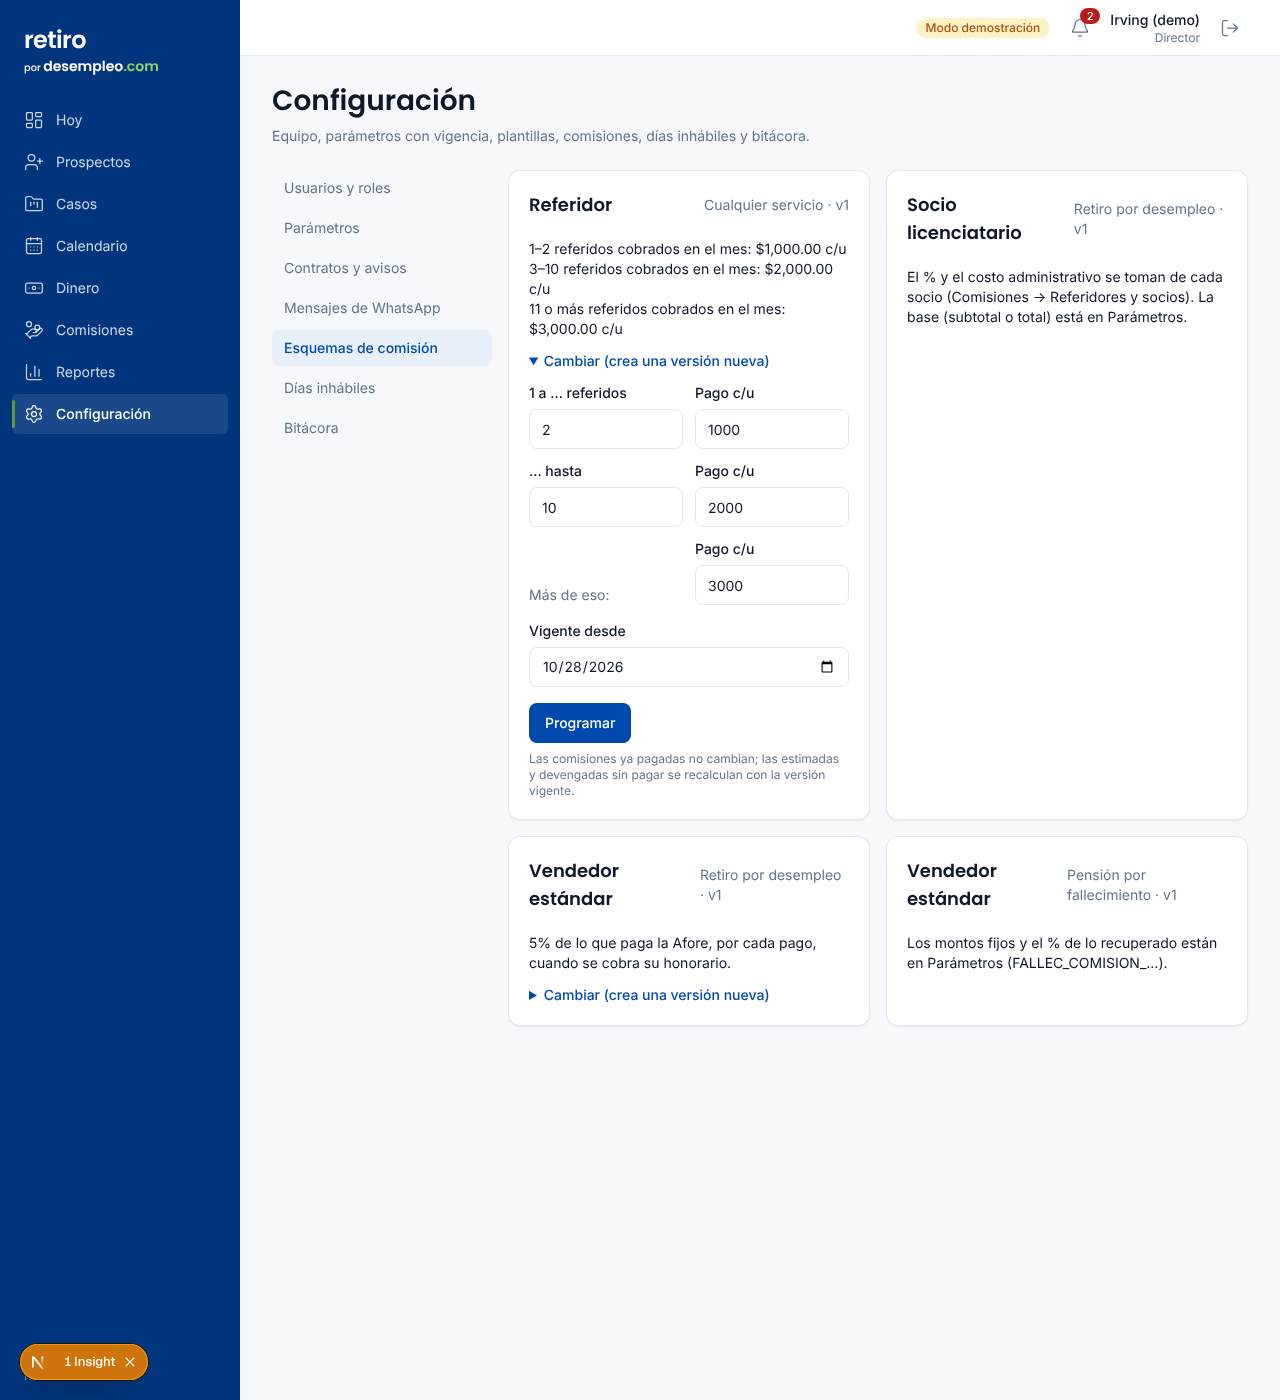
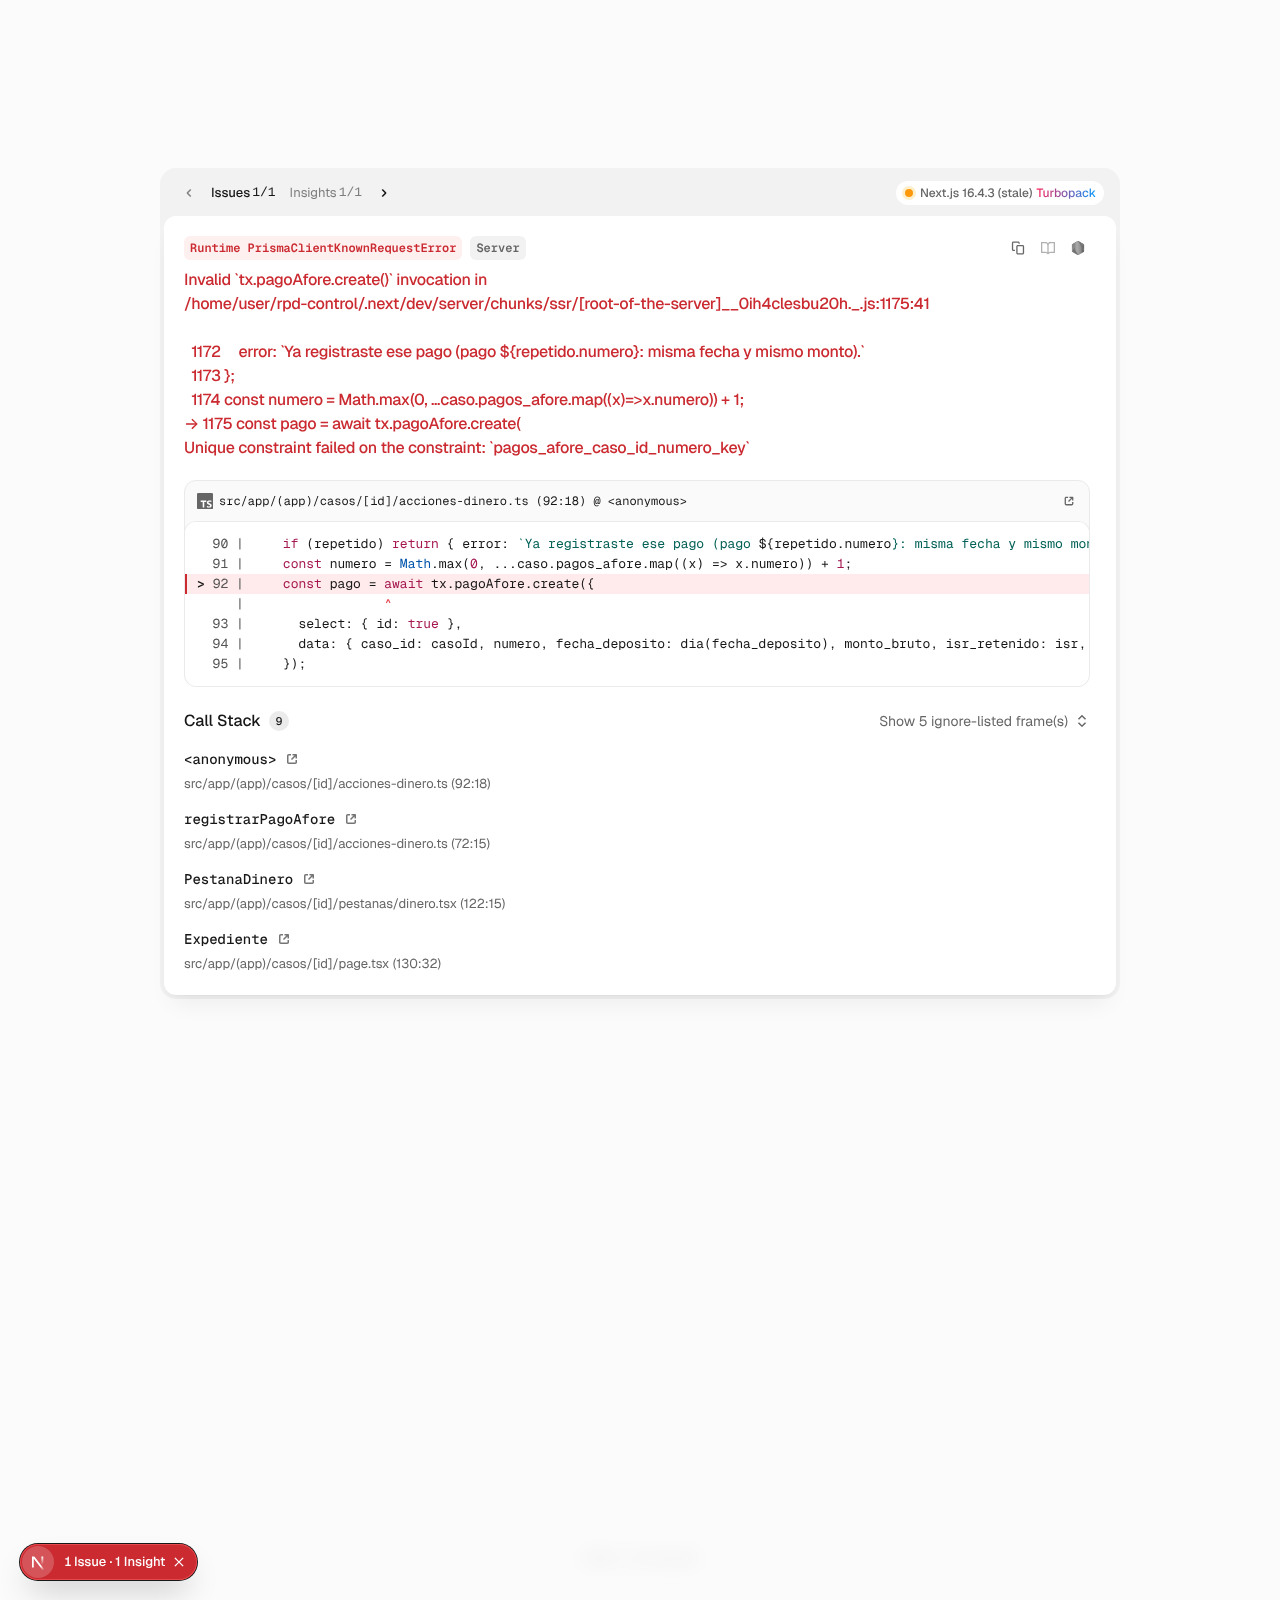
Un solo pago de la Afore por retiro (mensualidades solo en modalidad B)
Bloquea un segundo pago en modalidad A o sin modalidad, rechaza pagos repetidos
(misma fecha y monto), pide confirmar cada mensualidad de la B y deja de
reutilizar el número de un pago archivado.

Claude-Session: https://claude.ai/code/session_013nMRDE2zF3GuiwxZkimYuE

diff --git a/src/app/(app)/casos/[id]/pestanas/dinero.tsx b/src/app/(app)/casos/[id]/pestanas/dinero.tsx
@@ -6,8 +6,8 @@ import type { Sesion } from "@/lib/auth/sesion";
 import { conUsuario } from "@/lib/db/prisma";
 import { mxn } from "@/lib/formato";
 import type { CasoDetalle } from "@/lib/prospectos/consultas";
-import { parametrosDinero } from "@/lib/parametros";
-import { margenCaso, pctHonorarioRetiro } from "@/lib/reglas/comisiones";
+import { parametrosDinero, parametrosVigentes } from "@/lib/parametros";
+import { margenCaso, pagosAforePermitidos, pctHonorarioRetiro } from "@/lib/reglas/comisiones";
 import { hoyCDMX } from "@/lib/tiempo";
 import { archivarPagoAfore, cancelarCobro, guardarCanal, guardarHonorarioPactado, marcarCobrado, registrarCobro, registrarPagoAfore } from "../acciones-dinero";
 import { Campo, CampoTexto, Casilla, claseSelect, Seleccion } from "../campos";
@@ -26,13 +26,14 @@ export async function PestanaDinero({ caso, sesion }: { caso: CasoDetalle; sesio
     return <Card><CardContent className="text-sm text-ink-muted">Los pagos y cobros los registra el asesor. Tus comisiones están en «Comisiones».</CardContent></Card>;
   }
   const esRetiro = caso.servicio.clave === "RETIRO_DESEMPLEO";
-  const { HONORARIO_RETIRO_PCT } = await parametrosDinero();
+  const [{ HONORARIO_RETIRO_PCT }, { MODALIDAD_B_MENSUALIDADES_MAX }] = await Promise.all([parametrosDinero(), parametrosVigentes(["MODALIDAD_B_MENSUALIDADES_MAX"])]);
   const pctTxt = (x: number) => `${+(x * 100).toFixed(2)}%`;
   const pactado = caso.contrato_pct === null ? null : Number(caso.contrato_pct);
   const pct = pctHonorarioRetiro(pactado, { HONORARIO_RETIRO_PCT });
   const puedeCanal = rol === "director" || rol === "asesor";
   const d = await conUsuario(sesion.claims, async (tx) => ({
     pagos: await tx.pagoAfore.findMany({ where: { caso_id: caso.id, archivado_at: null }, orderBy: { numero: "asc" } }),
+    modalidad: (await tx.calculo.findFirst({ where: { caso_id: caso.id }, orderBy: { created_at: "desc" }, select: { modalidad_elegida: true } }))?.modalidad_elegida ?? null,
     cobros: await tx.cobro.findMany({ where: { caso_id: caso.id, archivado_at: null }, orderBy: { created_at: "asc" }, include: { pago_afore: { select: { numero: true } } } }),
     comisiones: await tx.comision.findMany({ where: { caso_id: caso.id, archivado_at: null, estado: { not: "cancelada" } }, orderBy: { created_at: "asc" } }),
     vendedores: puedeCanal ? await tx.usuario.findMany({ where: { rol: "vendedor", activo: true, archivado_at: null }, select: { id: true, nombre: true }, orderBy: { nombre: "asc" } }) : [],
@@ -40,6 +41,7 @@ export async function PestanaDinero({ caso, sesion }: { caso: CasoDetalle; sesio
     socios: puedeCanal ? await tx.socio.findMany({ where: { archivado_at: null }, select: { id: true, nombre: true }, orderBy: { nombre: "asc" } }) : [],
   }), sesion.ip);
 
+  const permitidos = pagosAforePermitidos(d.modalidad, Number(MODALIDAD_B_MENSUALIDADES_MAX) || 1);
   const vivos = d.cobros.filter((c) => c.estado !== "cancelado");
   const porCobrar = vivos.filter((c) => c.estado === "por_cobrar");
   const m = margenCaso(vivos.map((c) => ({ honorario: Number(c.honorario_total), iva: Number(c.iva), estado: c.estado })), d.comisiones.map((k) => ({ monto: Number(k.monto), estado: k.estado })));
@@ -84,7 +86,7 @@ export async function PestanaDinero({ caso, sesion }: { caso: CasoDetalle; sesio
 
       {esRetiro && (
         <Card>
-          <CardHeader><CardTitle>Pagos de la Afore</CardTitle><span className="text-sm text-ink-muted">{d.pagos.length} de 6 como máximo</span></CardHeader>
+          <CardHeader><CardTitle>Pagos de la Afore</CardTitle><span className="text-sm text-ink-muted">{d.modalidad === "B" ? `${d.pagos.length} de ${permitidos} mensualidades (modalidad B)` : `${d.pagos.length} de 1 · pago único`}</span></CardHeader>
           <CardContent className="grid gap-4">
             {d.pagos.length > 0 && (
               <Tabla encabezados={["#", "Depósito", "Bruto", "ISR", "Neto", ""]}>
@@ -111,8 +113,14 @@ export async function PestanaDinero({ caso, sesion }: { caso: CasoDetalle; sesio
                 ))}
               </Tabla>
             )}
-            {d.pagos.length < 6 && (
-              <FormularioAccion accion={registrarPagoAfore.bind(null, caso.id)} boton={`Registrar pago ${d.pagos.length + 1}`}
+            {d.pagos.length >= permitidos && (
+              <p className="rounded-[var(--radius-boton)] bg-exito-tint p-3 text-sm text-exito-texto">
+                {d.modalidad === "B" ? "Ya están registradas todas las mensualidades." : "Pago de la Afore registrado. El retiro por desempleo se paga una sola vez (modalidad A); si un dato está mal, usa «Corregir»."}
+              </p>
+            )}
+            {d.pagos.length < permitidos && (
+              <FormularioAccion accion={registrarPagoAfore.bind(null, caso.id)} boton={d.modalidad === "B" ? `Registrar mensualidad ${d.pagos.length + 1}` : "Registrar el pago de la Afore"}
+                confirmar={d.pagos.length > 0 ? `¿Registrar la mensualidad ${d.pagos.length + 1}? Revisa que sea un depósito nuevo de la Afore, no el mismo de antes.` : undefined}
                 etiquetas={{ fecha_deposito: "Fecha del depósito", monto_bruto: "Monto bruto", isr_retenido: "ISR retenido" }}>
                 <div className="grid gap-3 sm:grid-cols-3">
                   <CampoTexto id="fecha_deposito" etiqueta="Fecha del depósito" tipo="date" max={hoyCDMX()} />

diff --git a/src/app/(app)/casos/[id]/acciones-dinero.ts b/src/app/(app)/casos/[id]/acciones-dinero.ts
@@ -8,8 +8,8 @@ import { z } from "zod";
 import { obtenerSesion } from "@/lib/auth/sesion";
 import { conUsuario } from "@/lib/db/prisma";
 import { recalcularComisiones } from "@/lib/dinero/motor";
-import { parametrosDinero } from "@/lib/parametros";
-import { desglosarTotal, honorarioDePago, leerPctPactado, pctHonorarioRetiro } from "@/lib/reglas/comisiones";
+import { parametrosDinero, parametrosVigentes } from "@/lib/parametros";
+import { desglosarTotal, honorarioDePago, leerPctPactado, pagoRepetido, pagosAforePermitidos, pctHonorarioRetiro } from "@/lib/reglas/comisiones";
 import { hoyCDMX } from "@/lib/tiempo";
 import type { Resultado } from "./acciones";
 
@@ -67,14 +67,30 @@ export async function registrarPagoAfore(casoId: string, _p: Resultado, form: Fo
   const { fecha_deposito, monto_bruto } = r.data;
   const isr = r.data.isr_retenido ?? 0;
   const neto = Math.round((monto_bruto - isr) * 100) / 100;
-  const p = await parametrosDinero();
+  const [p, { MODALIDAD_B_MENSUALIDADES_MAX }] = await Promise.all([parametrosDinero(), parametrosVigentes(["MODALIDAD_B_MENSUALIDADES_MAX"])]);
 
   const res = await conUsuario(claims, async (tx): Promise<Resultado> => {
-    const caso = await tx.caso.findUnique({ where: { id: casoId }, select: { tipo_servicio: true, etapa: true, contrato_pct: true, pagos_afore: { where: { archivado_at: null }, select: { numero: true } } } });
+    const caso = await tx.caso.findUnique({ where: { id: casoId }, select: {
+      tipo_servicio: true, etapa: true, contrato_pct: true,
+      pagos_afore: { where: { archivado_at: null }, select: { numero: true, fecha_deposito: true, monto_bruto: true } },
+      calculos: { orderBy: { created_at: "desc" }, take: 1, select: { modalidad_elegida: true } },
+    } });
     if (!caso) return { error: "No encontramos el caso." };
     if (caso.tipo_servicio !== "RETIRO_DESEMPLEO") return { error: "Los pagos de la Afore son del retiro por desempleo. Para otros servicios registra el cobro." };
-    const numero = Math.max(0, ...caso.pagos_afore.map((x) => x.numero)) + 1;
-    if (numero > 6) return { error: "Ya hay 6 pagos registrados (máximo de la modalidad B)." };
+    // Un retiro se paga una sola vez; solo la modalidad B admite mensualidades.
+    const modalidad = caso.calculos[0]?.modalidad_elegida ?? null;
+    const permitidos = pagosAforePermitidos(modalidad, Number(MODALIDAD_B_MENSUALIDADES_MAX) || 1);
+    if (caso.pagos_afore.length >= permitidos) {
+      return { error: modalidad === "B"
+        ? `Ya están registradas las ${permitidos} mensualidades de la modalidad B.`
+        : "Este retiro ya tiene su pago de la Afore. La modalidad A se paga una sola vez; si el pago está mal, corrígelo en lugar de registrar otro." };
+    }
+    const repetido = pagoRepetido({ fecha: fecha_deposito, bruto: monto_bruto },
+      caso.pagos_afore.map((x) => ({ numero: x.numero, fecha: x.fecha_deposito.toISOString().slice(0, 10), bruto: Number(x.monto_bruto) })));
+    if (repetido) return { error: `Ya registraste ese pago (pago ${repetido.numero}: misma fecha y mismo monto).` };
+    // El número no se reutiliza: un pago archivado (corregido) conserva el suyo.
+    const ultimo = await tx.pagoAfore.aggregate({ where: { caso_id: casoId }, _max: { numero: true } });
+    const numero = (ultimo._max.numero ?? 0) + 1;
     const pago = await tx.pagoAfore.create({
       select: { id: true },
       data: { caso_id: casoId, numero, fecha_deposito: dia(fecha_deposito), monto_bruto, isr_retenido: isr, monto_neto: neto, created_by: usuario.id },

diff --git a/src/lib/reglas/__tests__/comisiones.test.ts b/src/lib/reglas/__tests__/comisiones.test.ts
@@ -2,7 +2,7 @@
 import { describe, expect, it } from "vitest";
 import {
   alertasDinero, comisionesDelCaso, conciliar, desglosarTotal, finDeMes, honorarioDePago, leerPctPactado, liquidacionReferidor, margenCaso,
-  pctHonorarioRetiro,
+  pagoRepetido, pagosAforePermitidos, pctHonorarioRetiro,
   repartoSocio, sumar, type CasoDinero, type ComisionGuardada, type EsquemasCaso, type ParametrosDinero,
 } from "../comisiones";
 
@@ -39,6 +39,20 @@ describe("2.2 honorario sobre el depósito", () => {
   it("honorario fijo: el IVA es la diferencia y suma exacto", () => {
     const d = desglosarTotal(4999.99, 0.16);
     expect(d.subtotal + d.iva).toBeCloseTo(4999.99, 10);
+  });
+});
+
+describe("pagos de la Afore por retiro", () => {
+  it("modalidad A o sin elegir: un solo pago; B: hasta el máximo de mensualidades", () => {
+    expect(pagosAforePermitidos("A", 6)).toBe(1);
+    expect(pagosAforePermitidos(null, 6)).toBe(1);
+    expect(pagosAforePermitidos("B", 6)).toBe(6);
+  });
+  it("detecta el doble registro (misma fecha y monto), no otra mensualidad", () => {
+    const previos = [{ fecha: "2026-11-07", bruto: 35193 }];
+    expect(pagoRepetido({ fecha: "2026-11-07", bruto: 35193.0 }, previos)).toEqual(previos[0]);
+    expect(pagoRepetido({ fecha: "2026-12-07", bruto: 35193 }, previos)).toBeNull();
+    expect(pagoRepetido({ fecha: "2026-11-07", bruto: 35193.01 }, previos)).toBeNull();
   });
 });
 

diff --git a/src/lib/reglas/comisiones.ts b/src/lib/reglas/comisiones.ts
@@ -53,6 +53,19 @@ export function leerPctPactado(texto: string): { pct: number | null } | { error:
   return { pct: Math.round(n * 100) / 10000 };
 }
 
+/**
+ * Cuántos pagos de la Afore admite un retiro: la modalidad A (o sin modalidad elegida) se paga en una
+ * sola exhibición; la B, en hasta MODALIDAD_B_MENSUALIDADES_MAX mensualidades (7.2).
+ */
+export function pagosAforePermitidos(modalidad: string | null | undefined, maxMensualidadesB: number): number {
+  return modalidad === "B" ? maxMensualidadesB : 1;
+}
+
+/** Un pago con la misma fecha y el mismo monto bruto que otro ya registrado es casi siempre un doble registro. */
+export function pagoRepetido<T extends { fecha: string; bruto: number }>(nuevo: { fecha: string; bruto: number }, previos: T[]): T | null {
+  return previos.find((x) => x.fecha === nuevo.fecha && Math.round(x.bruto * 100) === Math.round(nuevo.bruto * 100)) ?? null;
+}
+
 /** Honorario (HONORARIO_RETIRO_PCT) sobre el depósito (neto o bruto según el parámetro), con su desglose. */
 export function honorarioDePago(pago: Pick<PagoAforeFoto, "bruto" | "neto">, p: Pick<ParametrosDinero, "HONORARIO_RETIRO_PCT" | "IVA" | "BASE_HONORARIO">) {
   const base = baseDePago(pago, p.BASE_HONORARIO);

diff --git a/prisma/seed.ts b/prisma/seed.ts
@@ -16,6 +16,7 @@ const PARAMETROS: { clave: string; valor: string; tipo?: string; descripcion: st
   { clave: "UMA_MENSUAL", valor: "3566.22", descripcion: "UMA mensual", desde: "2026-02-01", hasta: "2027-01-31" },
   { clave: "HONORARIO_RETIRO_PCT", valor: "0.30", descripcion: "Honorario del retiro, IVA incluido" },
   { clave: "IVA", valor: "0.16", descripcion: "Tasa de IVA" },
+  { clave: "MODALIDAD_B_MENSUALIDADES_MAX", valor: "6", tipo: "entero", descripcion: "Pagos máximos de la Afore en modalidad B; la A se paga en uno solo" },
   { clave: "DIAS_ESPERA_DESEMPLEO", valor: "46", tipo: "entero", descripcion: "Fecha elegible = baja + N días naturales (art. 191-II)" },
   { clave: "ANIOS_CANDADO_RETIRO", valor: "5", tipo: "entero", descripcion: "Años entre retiros por desempleo" },
   { clave: "SLA_DIAS_HABILES", valor: "15", tipo: "entero", descripcion: "Días hábiles para ingresar desde expediente completo" },

diff --git a/docs/DECISIONES.md b/docs/DECISIONES.md
@@ -167,3 +167,12 @@ Los documentos de clientes no se guardan en el repositorio: se convirtieron en p
 - Las dos acciones quedan en la bitácora (`CLAVE_TEMPORAL`, `RESTABLECER_2FA`) mediante `app.registrar_accion_cuenta`,
   que solo el Director puede llamar (migración 1400).
 - La invitación por correo sigue disponible para cuando se configure Resend.
+
+## 7-nov-2026 · Un retiro, un pago de la Afore
+
+- Modalidad A o sin modalidad elegida: **un solo pago** de la Afore por retiro; después el formulario desaparece.
+  Modalidad B: hasta `MODALIDAD_B_MENSUALIDADES_MAX` mensualidades (6; antes estaba escrito en el código), cada una
+  con confirmación. Se rechaza un pago con la misma fecha y monto que uno ya registrado.
+- El número de pago no se reutiliza: un pago archivado conserva el suyo (antes, registrar después de corregir fallaba).
+- RP-0001: el pago 2 era un doble registro del pago 1 (misma fecha y monto, cobro ya cancelado); se archivó con nota en
+  Seguimiento.
